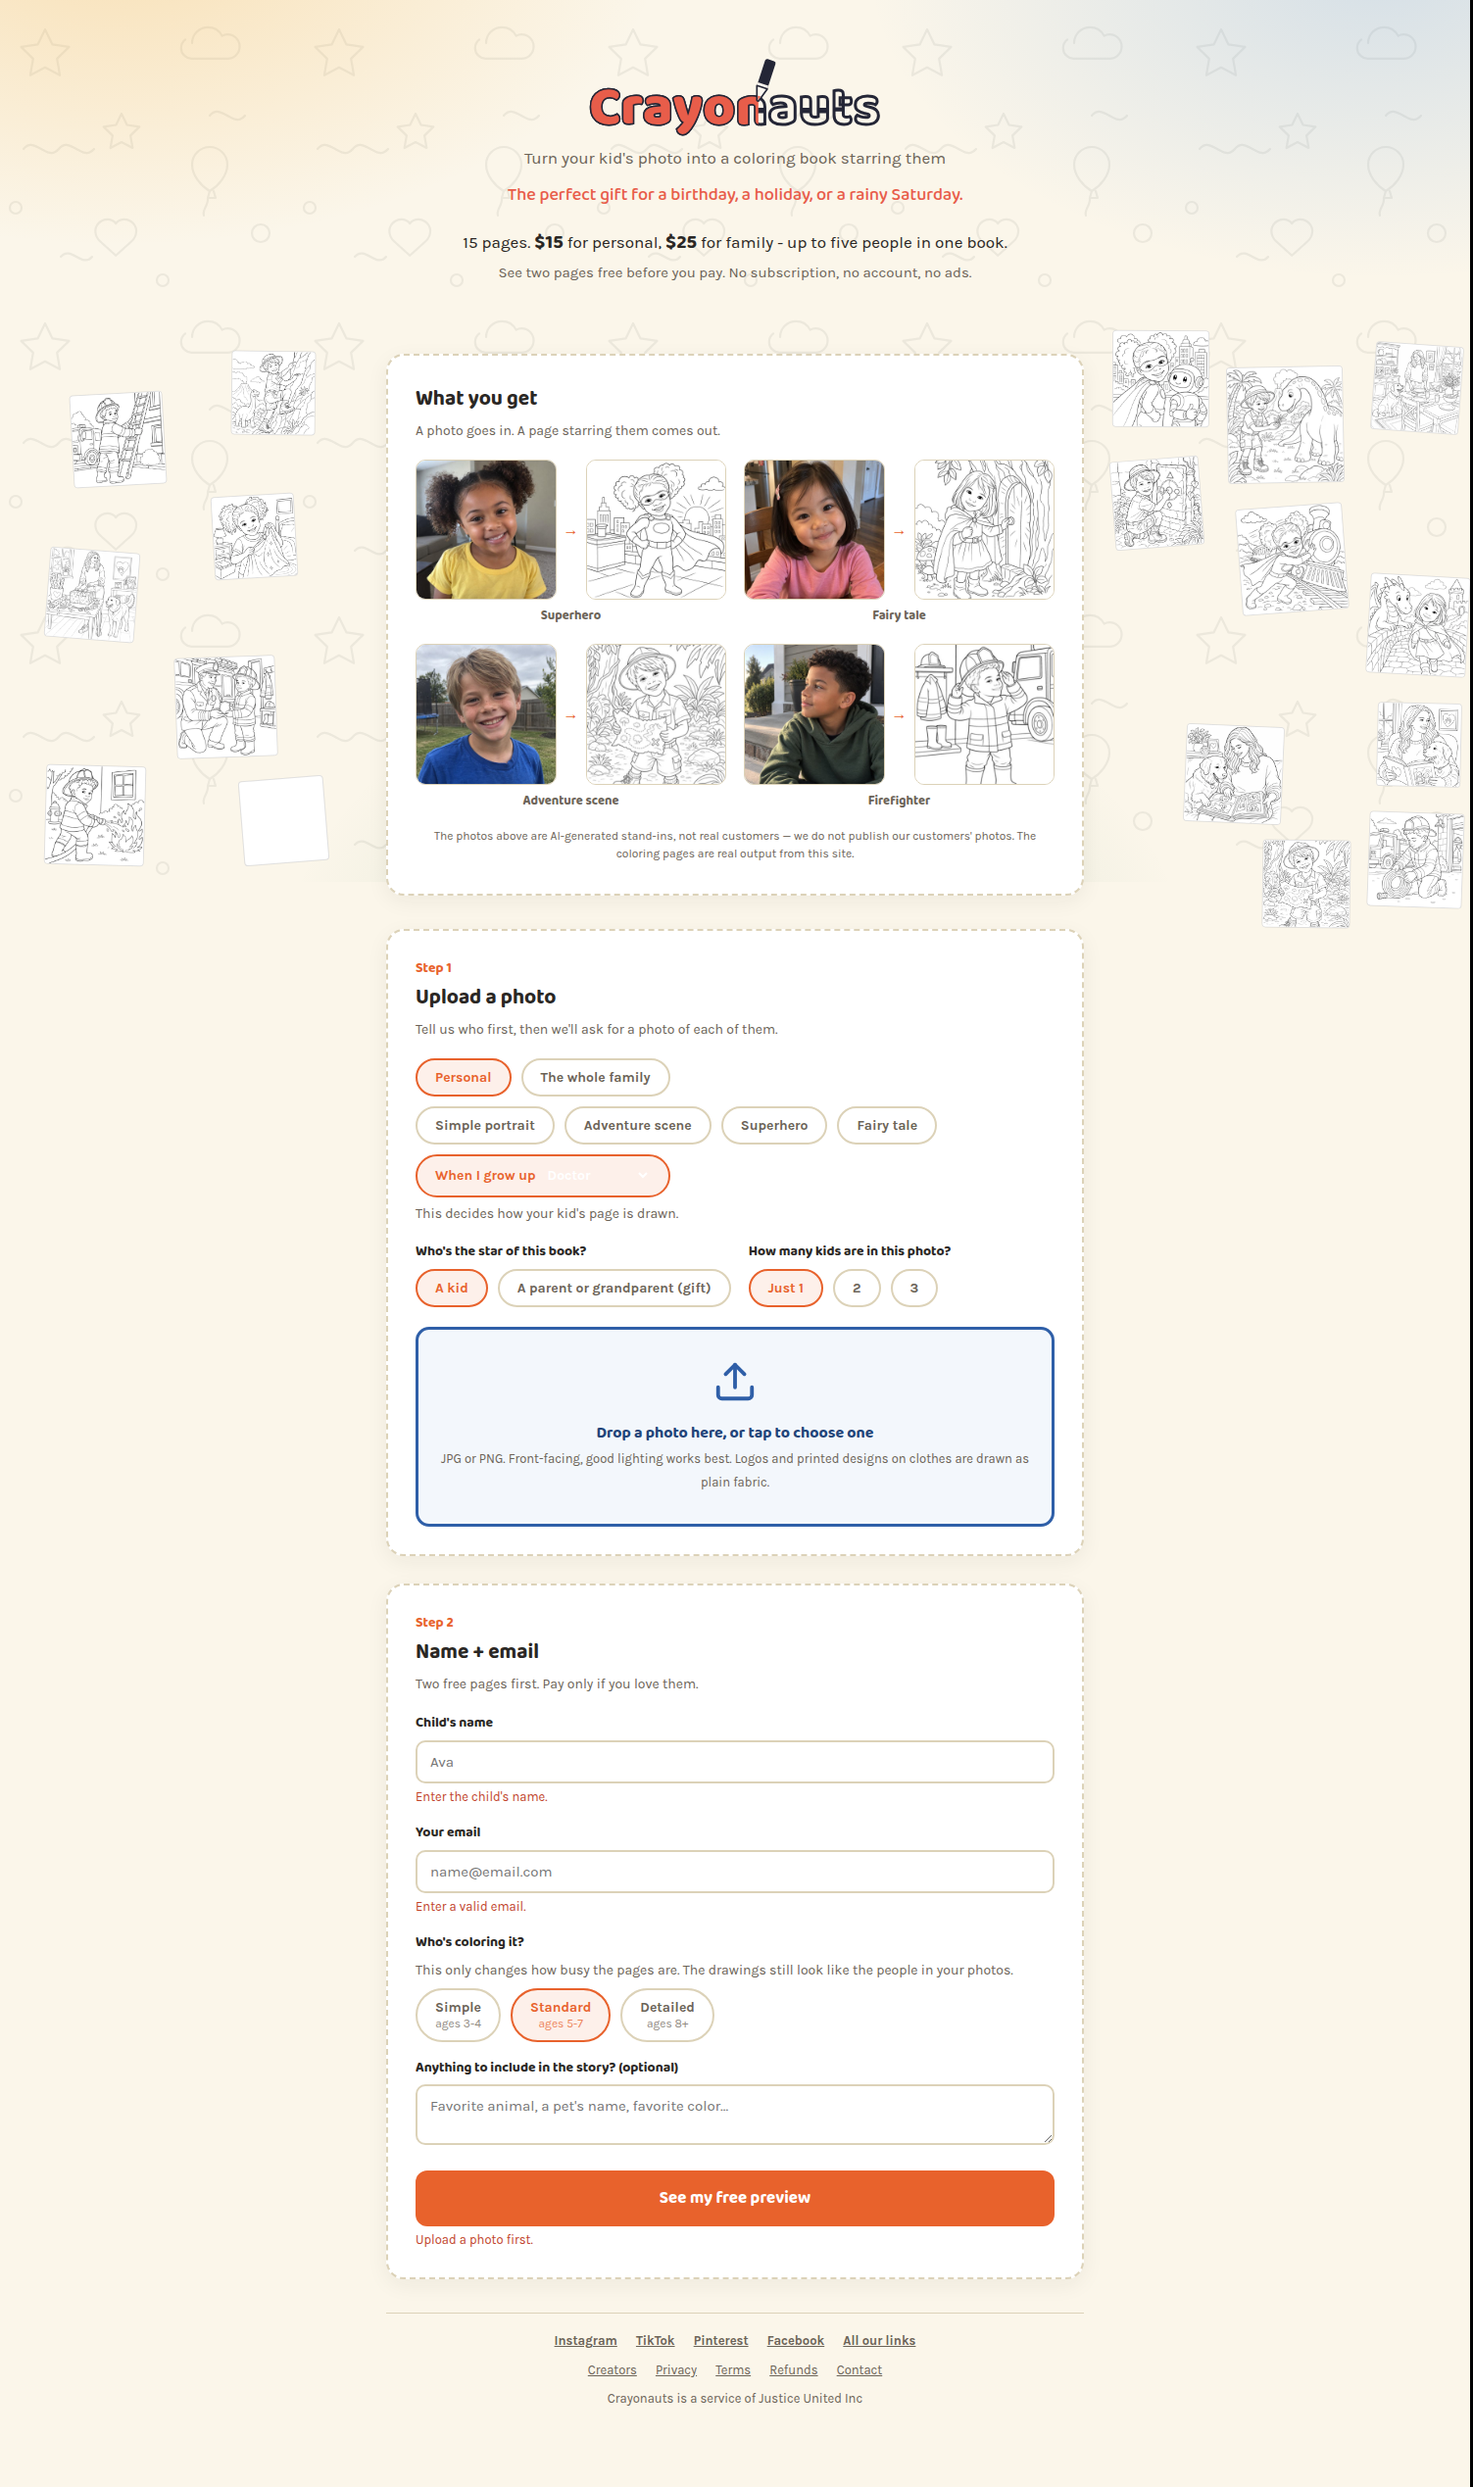
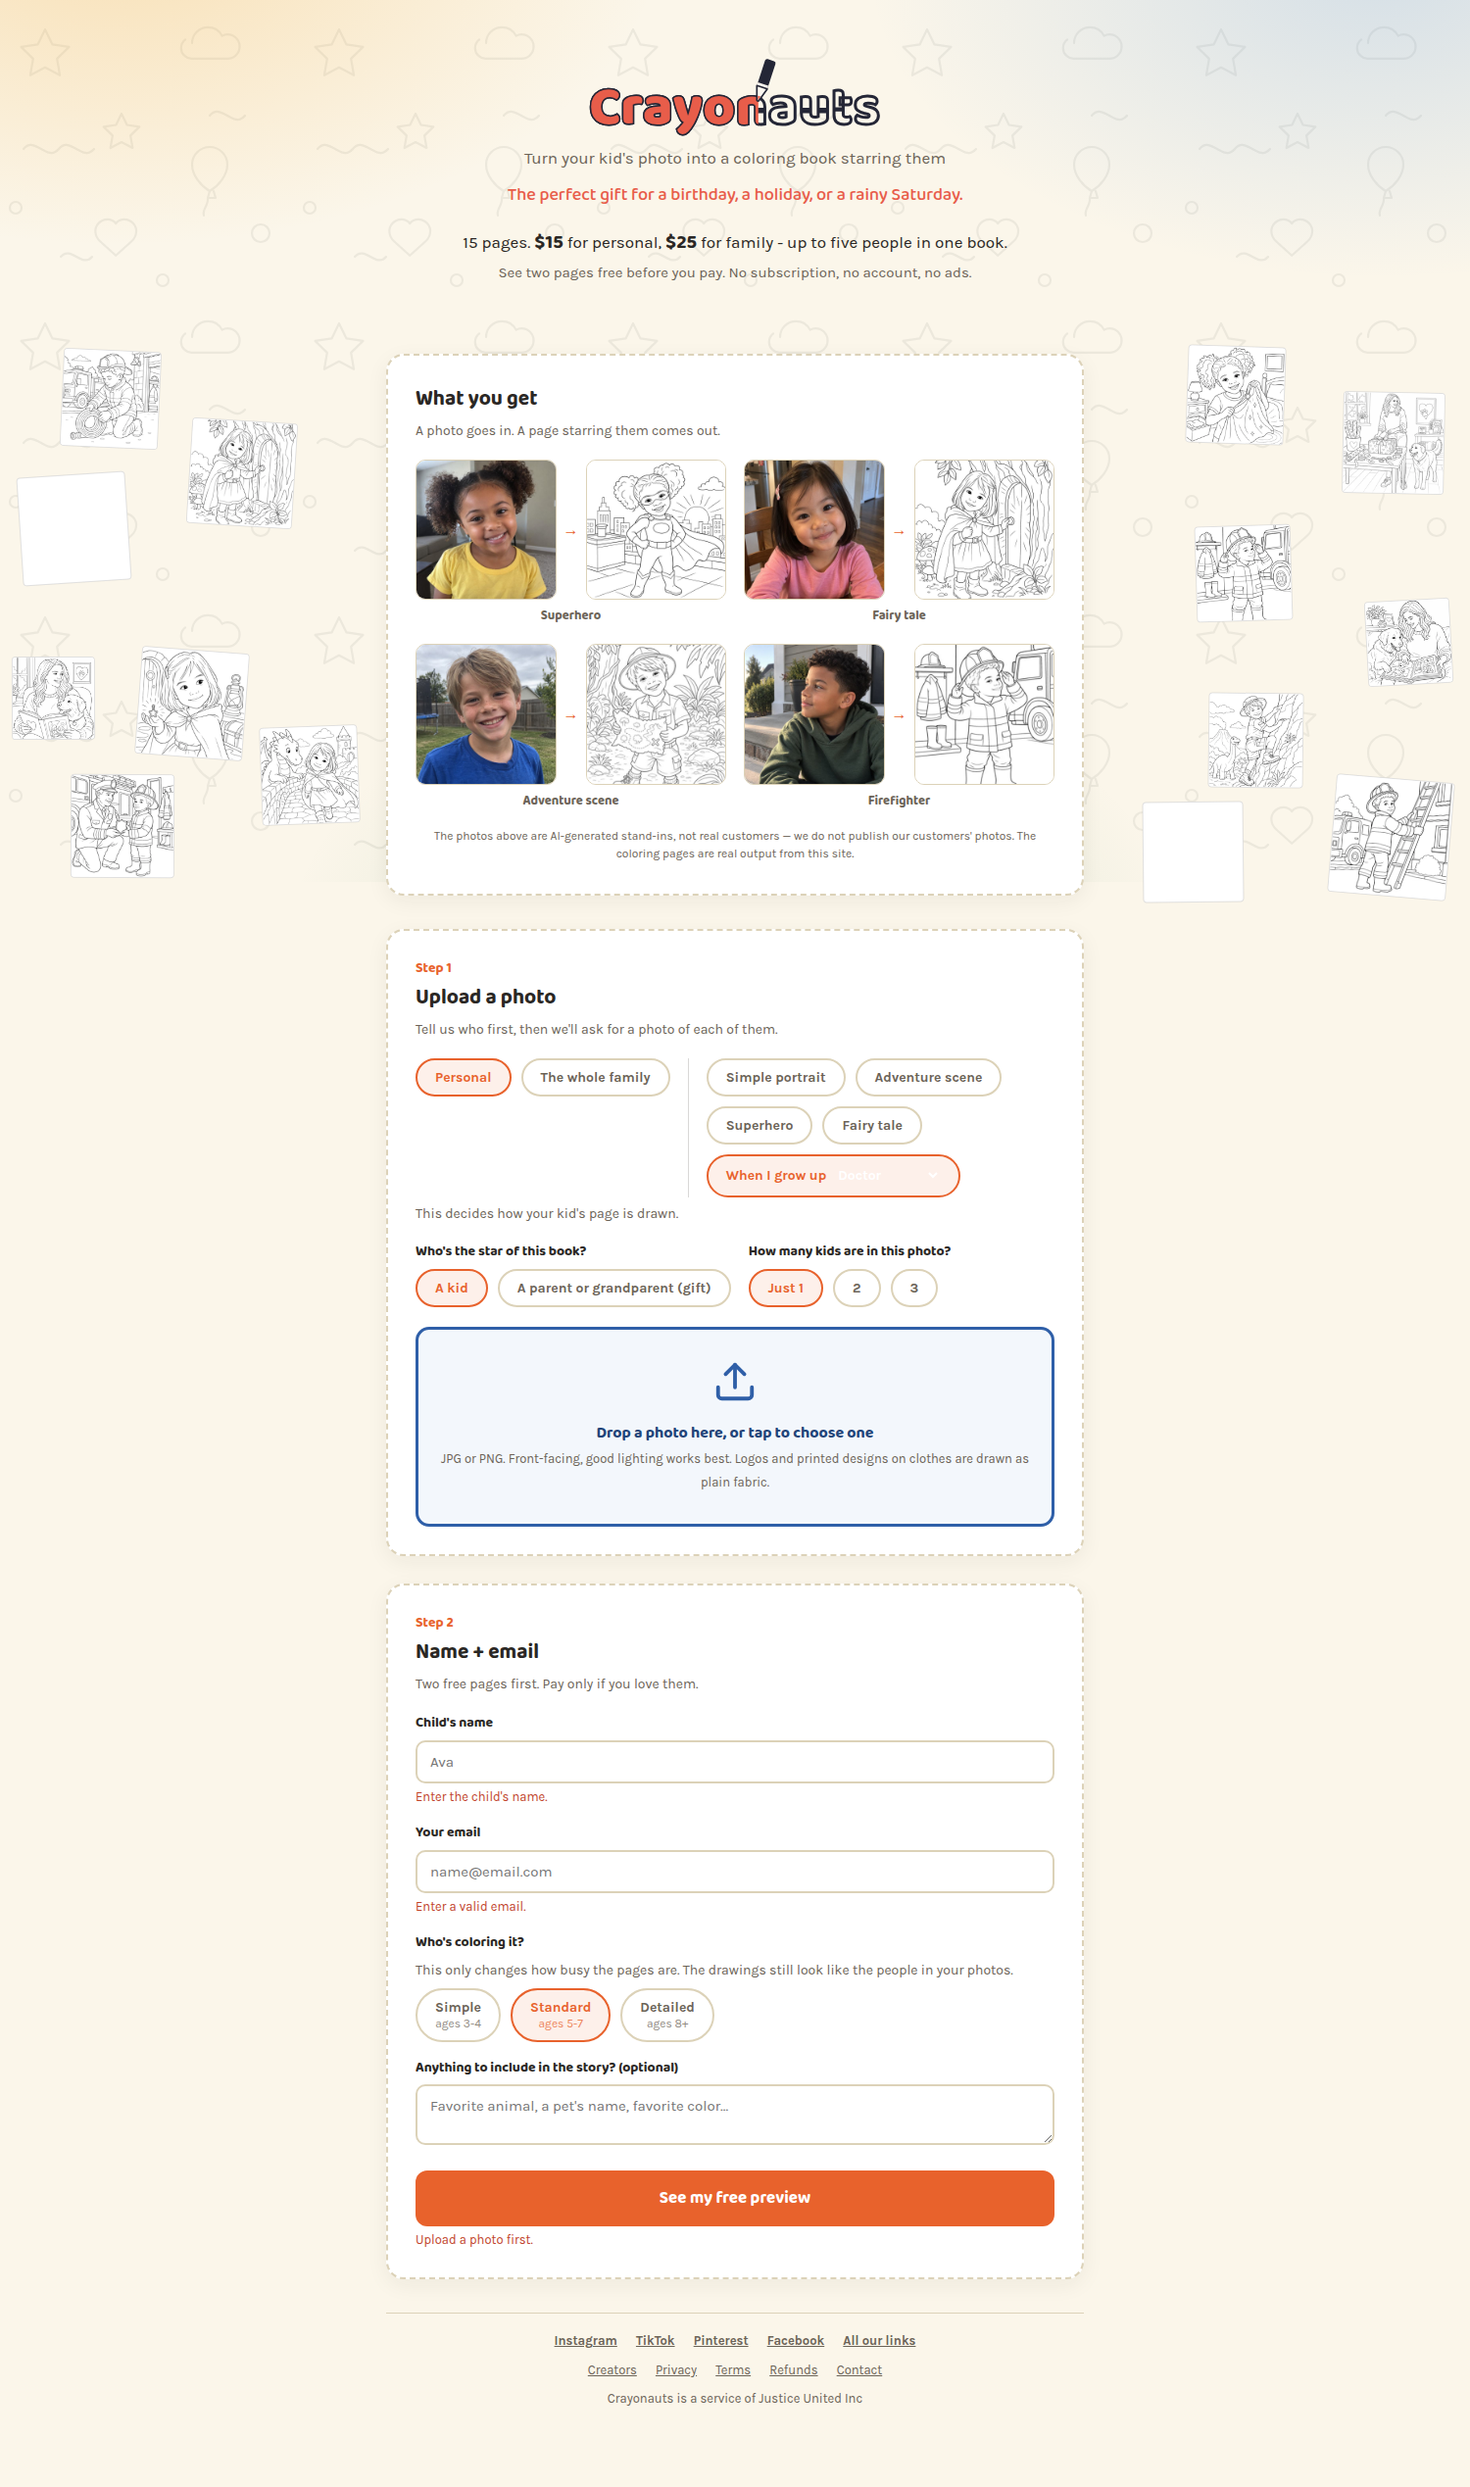
Step 1 row 1: toggle and style pills side by side with a thin divider
The Personal/Family toggle keeps its natural width and the style pills wrap
in their own column beside it, split by a 1px divider (opacity .18), as in
the mockup. Under 640px the row stacks and the divider becomes a thin
horizontal rule. Markup moved/added only; no ids changed.

Claude-Session: https://claude.ai/code/session_01T1LFf6D8TnCZR29xxgm55D

diff --git a/index.html b/index.html
@@ -196,6 +196,14 @@ fbq('track', 'PageView');
   .intake-row { display: flex; flex-wrap: wrap; gap: 10px 18px; align-items: flex-start; margin-top: 14px; }
   .intake-row .themes { margin: 0; }
   .intake-row--tight { margin-top: 18px; }
+  /* Row 1: who it's for | thin divider | style. The toggle keeps its natural
+     width and the style pills wrap inside their own column beside it. */
+  .intake-row--split { display: grid; grid-template-columns: auto 1px minmax(0, 1fr); gap: 10px 18px; }
+  .intake-divider { align-self: stretch; background: var(--ink); opacity: .18; }
+  @media (max-width: 640px) {
+    .intake-row--split { grid-template-columns: minmax(0, 1fr); }
+    .intake-divider { height: 1px; }
+  }
   .intake-note { margin-top: 8px; margin-bottom: 0; }
   .intake-label { display: block; font-weight: 700; font-size: 14px; margin-bottom: 6px; font-family: 'Baloo 2', sans-serif; }
   .step-desc { color: var(--ink-soft); font-size: 14px; margin: 6px 0 18px; }
@@ -674,11 +682,12 @@ fbq('track', 'PageView');
     <h2>Upload a photo</h2>
     <p class="step-desc" id="whoStepDesc">Tell us who first, then we'll ask for a photo of each of them.</p>
 
-    <div class="intake-row">
+    <div class="intake-row intake-row--split">
       <div class="themes" id="bookModePicker">
         <button type="button" class="theme-pill active" data-mode="one">Personal</button>
         <button type="button" class="theme-pill" data-mode="family">The whole family</button>
       </div>
+      <div class="intake-divider" aria-hidden="true"></div>
       <div class="themes" id="themes">
         <button type="button" class="theme-pill active" data-theme="Portrait" data-audience="both">Simple portrait</button>
         <button type="button" class="theme-pill" data-theme="Adventure scene" data-audience="kid">Adventure scene</button>
